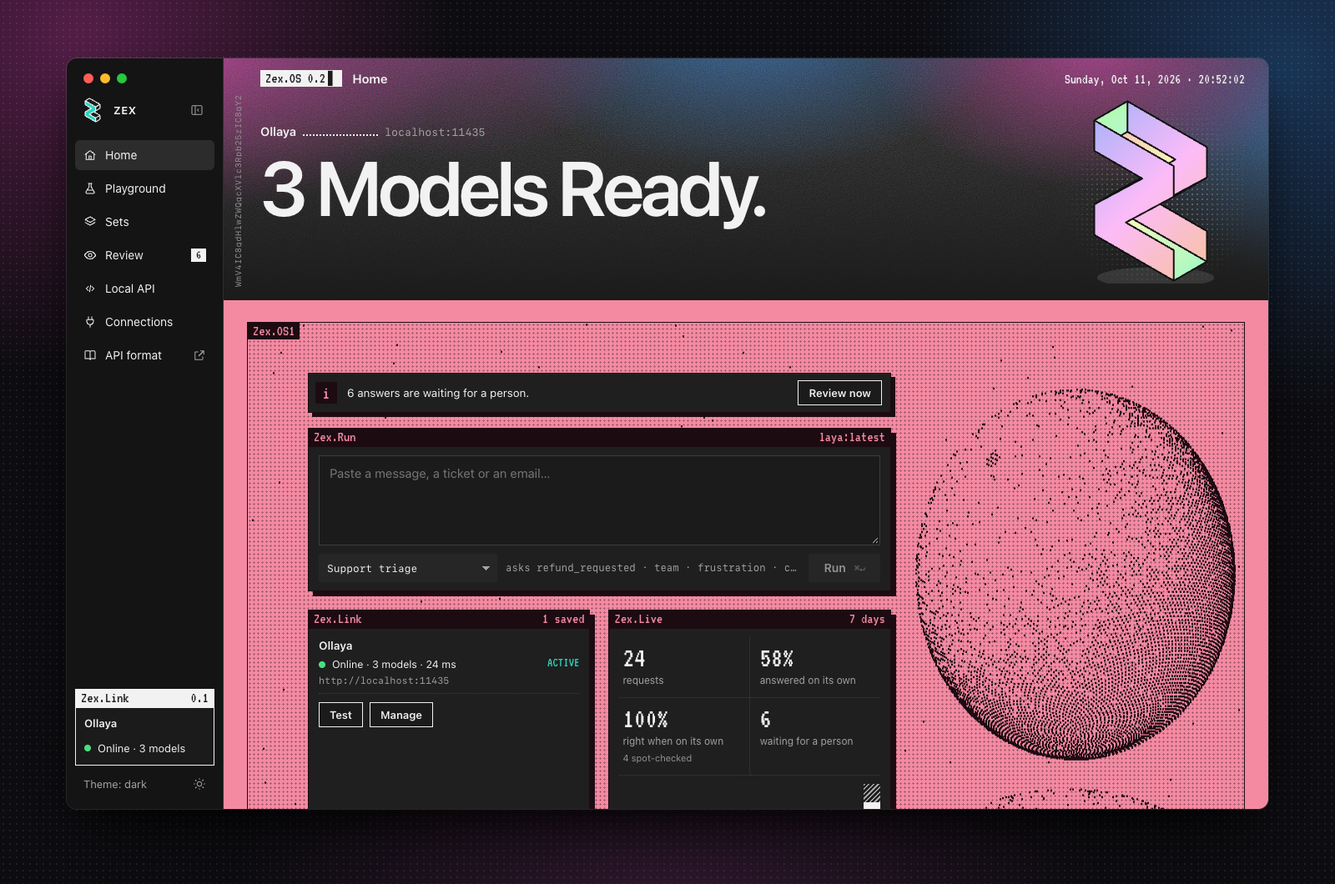
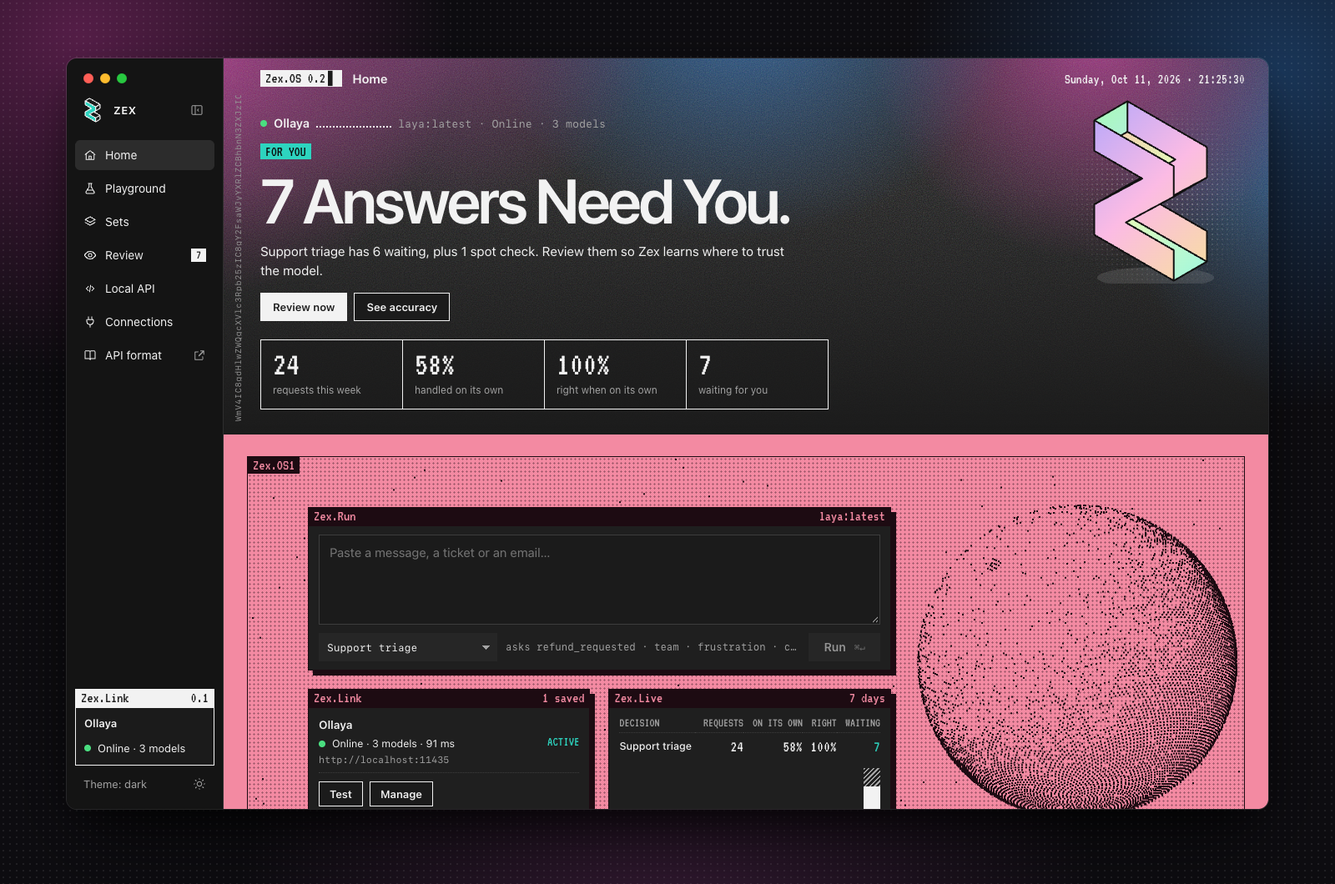
Lead Home with what matters now, and fix the review list in the app
Home's head is now a briefing: a problem to fix, answers waiting, or how the
week went, with the action and the week's numbers. The Live card breaks them
down by decision. The desktop server sent a null list when the request log
was empty, which broke the Review page; it now sends an empty list.

Changed region(s): [[0.1562, 0.1245, 0.9688, 0.934], [0.7188, 0.1557, 0.8438, 0.2802]]

diff --git a/web/index.html b/web/index.html
@@ -793,12 +793,6 @@ a.server-card:hover .win-title { background: var(--accent); color: var(--on-acce
 .rv-acc { display: flex; flex-direction: column; gap: 12px; }
 .rv-acc-note { margin: 0; font-size: 13px; color: var(--text-muted); }
 .switch.sm { height: 24px; } .switch.sm .pix { font-size: 16px; }
-.hm-alerts { position: relative; z-index: 1; display: flex; flex-direction: column; gap: 10px; margin-bottom: 18px; max-width: 64%; }
-.hm-alerts:empty { display: none; }
-.hm-alert { display: flex; align-items: center; gap: 12px; padding: 8px 10px 8px 8px; background: var(--winbody); border: 1.5px solid var(--desk-ink); box-shadow: 5px 5px 0 var(--desk-ink); font-size: 13.5px; }
-.hm-alert .ic { width: 26px; height: 26px; display: grid; place-items: center; font-size: 22px; background: var(--desk-ink); color: var(--desk); flex: none; }
-.hm-alert.a-bad .ic { background: var(--danger); color: #fff; } .hm-alert.a-warn .ic { background: var(--warn); color: #fff; }
-.hm-alert .tx { flex: 1; }
 .hm-live { display: flex; flex-direction: column; gap: 10px; }
 .hm-cell { text-align: left; padding: 8px 4px 10px; border-bottom: 1px dotted var(--border-strong); display: flex; flex-direction: column; }
 .hm-stats > .hm-cell:nth-child(odd) { border-right: 1px dotted var(--border-strong); padding-right: 10px; }
@@ -810,7 +804,34 @@ a.server-card:hover .win-title { background: var(--accent); color: var(--on-acce
 .lb { flex: 1; height: 100%; display: flex; flex-direction: column; justify-content: flex-end; }
 .lb i { display: block; } .lb i.aut { background: var(--text); } .lb i.rev { background: repeating-linear-gradient(135deg, var(--text-muted) 0 1.5px, transparent 1.5px 4px); }
 .lbars-x { display: flex; justify-content: space-between; font-size: 14px; color: var(--text-muted); }
-@media (max-width: 1100px) { .rv-grid { grid-template-columns: minmax(0, 1fr); } .hm-alerts { max-width: none; } }
+@media (max-width: 1100px) { .rv-grid { grid-template-columns: minmax(0, 1fr); } }
+
+/* ---------- home briefing ---------- */
+.hm-brief { max-width: calc(100% - 250px); }
+.hm-brief .hm-leader { margin: 34px 0 14px; max-width: none; gap: 0; }
+.hm-brief .hm-leader .dot { margin-right: 8px; }
+.hm-tone { display: inline-block; font-size: 17px; line-height: 19px; padding: 0 6px; background: var(--text); color: var(--bg); margin-bottom: 8px; }
+.tone-bad .hm-tone { background: var(--danger); color: #fff; } .tone-warn .hm-tone { background: var(--warn); color: #fff; }
+.tone-info .hm-tone { background: var(--accent); color: var(--on-accent); }
+.hm-brief .hm-status { font-size: clamp(40px, 5.2vw, 88px); line-height: 1.02; padding-top: .04em; max-width: none; min-height: 0; }
+.tone-bad .hm-status { color: var(--danger); }
+.hm-sub { margin: 12px 0 0; font-size: 15.5px; line-height: 1.45; max-width: 640px; }
+.hm-more { list-style: none; margin: 10px 0 0; padding: 0; font-size: 13px; color: var(--text-muted); display: flex; flex-direction: column; gap: 4px; }
+.hm-acts { display: flex; gap: 8px; flex-wrap: wrap; margin-top: 16px; }
+.hm-acts .btn { height: 34px; padding: 0 14px; }
+.hm-kpis { display: grid; grid-template-columns: repeat(4, minmax(0, 170px)); margin-top: 22px; border-top: 1.5px solid var(--text); border-left: 1.5px solid var(--text); width: max-content; max-width: 100%; }
+.hm-kpi { display: flex; flex-direction: column; gap: 2px; text-align: left; padding: 10px 14px 12px; border-right: 1.5px solid var(--text); border-bottom: 1.5px solid var(--text); background: color-mix(in srgb, var(--bg) 55%, transparent); min-width: 0; }
+.hm-kpi b { font-family: var(--pix); font-size: 40px; font-weight: 400; line-height: .95; }
+.hm-kpi span { font-size: 12px; color: var(--text-muted); white-space: nowrap; overflow: hidden; text-overflow: ellipsis; }
+.hm-kpi:hover { background: var(--bg); } .hm-kpi:hover b { color: var(--accent); }
+.hm-dec { width: 100%; border-collapse: collapse; font-size: 12.5px; }
+.hm-dec th { font: 15px var(--pix); text-transform: uppercase; color: var(--text-muted); text-align: right; padding: 0 0 4px 8px; font-weight: 400; }
+.hm-dec th:first-child { text-align: left; padding-left: 0; }
+.hm-dec td { padding: 6px 0 6px 8px; border-top: 1px dotted var(--border-strong); text-align: right; }
+.hm-dec td.n { text-align: left; padding-left: 0; font-weight: 500; overflow: hidden; text-overflow: ellipsis; white-space: nowrap; max-width: 140px; }
+.hm-dec td.pix { font-size: 19px; } .hm-dec td.w { color: var(--accent); }
+.hm-dec tbody tr { cursor: pointer; } .hm-dec tbody tr:hover td { background: var(--surface-2); }
+@media (max-width: 900px) { .hm-brief { max-width: none; } .hm-kpis { grid-template-columns: repeat(2, minmax(0, 1fr)); width: auto; } }
 
 /* ---------- boot splash ---------- */
 #splash { position: fixed; inset: 0; z-index: 1000; display: grid; place-items: center; overflow: hidden; background: var(--bg); color: var(--text);
@@ -1466,14 +1487,7 @@ a.server-card:hover .win-title { background: var(--accent); color: var(--on-acce
     document.querySelectorAll("[data-cerr]").forEach((el) => { el.textContent = statusLine(el.dataset.cerr).error || ""; });
     document.querySelectorAll("[data-cmodels]").forEach((el) => el.replaceChildren(...modelChips(el.dataset.cmodels)));
     document.querySelectorAll("[data-coff]").forEach((el) => { el.hidden = cstat[el.dataset.coff]?.state !== "bad"; });
-    document.querySelectorAll("[data-hmstatus]").forEach((el) => { const t = homeStatus(); if (el.dataset.t !== t) { el.dataset.t = t; el.replaceChildren(...words(t)); } });
-  }
-  function homeStatus() {
-    const st = cstat[activeId];
-    if (!st || st.state === "checking") return "Connecting…";
-    if (st.state === "bad") return "No Model Server.";
-    if (st.state === "warn") return "Server Ready.";
-    return `${st.models.length} Model${st.models.length === 1 ? "" : "s"} Ready.`;
+    paintBrief();
   }
 
   function useConn(id) { activeId = id; saveConns(); syncModelSelect(); paintConnUI(); cmp.a = null; cmp.b = null; cmp.res = {}; if (route !== "playground") applyRoute(); }
@@ -2936,7 +2950,6 @@ a.server-card:hover .win-title { background: var(--accent); color: var(--on-acce
       ac.kind === "ollaya" ? [h("code", {}, installCmds),
         h("div", { class: "btn-row" }, h("button", { class: "btn", type: "button", onclick: async () => toast((await copyText(installCmds)) ? "Commands copied" : "Copy failed") }, "Copy install commands"))] : null);
 
-    const status = homeStatus();
     const stat = (label, value, count, suffix = "") => h("div", {}, h("b", count != null ? { "data-count": String(count), "data-suffix": suffix } : {}, value), h("span", {}, label));
 
     return h("div", { class: "home" },
@@ -2945,12 +2958,10 @@ a.server-card:hover .win-title { background: var(--accent); color: var(--on-acce
         h("div", { class: "hm-top" },
           h("span", { class: "tagline cursor" }, "Zex.OS 0.2"), h("h1", {}, "Home"), h("span", { class: "grow" }),
           h("span", { class: "zclock pix" }, `${fmtDate()} · ${fmtTime()}`)),
-        h("p", { class: "hm-leader" }, h("b", {}, ac.name), h("span", { class: "dl", "aria-hidden": "true" }), h("span", { class: "u" }, ac.url.replace(/^https?:\/\//, ""))),
-        h("div", { class: "giant hm-status", "data-hmstatus": "", "data-t": status, role: "status" }, words(status)),
+        (hmBriefEl = briefEl()),
         h("div", { class: "hm-mark" }, h("div", { class: "halftone" }), heroCanvas())),
       h("div", { class: "hm-desk-wrap" }, withDeskDots(h("section", { class: "hm-desk", "aria-label": "Workspace" },
         h("span", { class: "tagline" }, "Zex.OS1"),
-        (hmAlertsEl = alertsEl()),
         h("div", { class: "hm-grid" },
         win("Zex.Run", h("span", { "data-model": "" }, model), h("div", { class: "qr" }, ta, h("div", { class: "qr-row" }, sel, keys, runQ)), "qr-win"),
         win("Zex.Link", `${conns.length} saved`, h("div", { class: "hm-conn" },
@@ -3038,7 +3049,7 @@ a.server-card:hover .win-title { background: var(--accent); color: var(--on-acce
   // as spot checks. Every review is a label, and labels feed the accuracy view and Home.
   const rv = { tab: "waiting", set: "", items: [], counts: {}, total: 0, sel: null, picks: {}, q: 0, evalKey: null, evalThr: {}, evalItems: null, loading: false, error: "" };
   let live = { stats: null, counts: null };
-  let rvBody = null, hmStatsEl = null, hmAlertsEl = null;
+  let rvBody = null, hmStatsEl = null;
   async function zexGet(path) { const r = await fetch(path, { headers: { "X-Zex": "1" } }); const d = await r.json(); if (!r.ok) throw new Error(d.error || `HTTP ${r.status}`); return d; }
   async function zexPost(path, body) { const r = await fetch(path, { method: "POST", headers: { "X-Zex": "1", "Content-Type": "application/json" }, body: JSON.stringify(body) }); const d = await r.json(); if (!r.ok) throw new Error(d.error || `HTTP ${r.status}`); return d; }
   const itemStatus = (it) => (it.review ? "reviewed" : it.error ? "error" : !it.all_auto ? "waiting" : it.audit ? "spot" : "auto");
@@ -3071,10 +3082,10 @@ a.server-card:hover .win-title { background: var(--accent); color: var(--on-acce
       if (rv.tab === "accuracy") {
         if (!rv.set) rv.set = (curSet() || sets[0])?.slug || "";
         const d = await zexGet(`/zex/log?status=reviewed&limit=-1&set=${encodeURIComponent(rv.set)}`);
-        rv.evalItems = d.items; rv.counts = d.counts;
+        rv.evalItems = d.items || []; rv.counts = d.counts || {};
       } else {
         const d = await zexGet(`/zex/log?status=${rv.tab}&limit=200${setQ}`);
-        rv.items = d.items; rv.counts = d.counts; rv.total = d.total;
+        rv.items = d.items || []; rv.counts = d.counts || {}; rv.total = d.total || 0;
         if (!rv.items.some((x) => x.id === rv.sel)) { rv.sel = rv.items[0]?.id || null; rv.picks = {}; rv.q = 0; }
       }
     } catch (e) { rv.error = e.message; }
@@ -3269,17 +3280,11 @@ a.server-card:hover .win-title { background: var(--accent); color: var(--on-acce
     if (L.waiting + L.spot) out.push({ kind: "info", text: `${fmtN(L.waiting)} answer${L.waiting === 1 ? " is" : "s are"} waiting for a person${L.spot ? `, and ${fmtN(L.spot)} spot check${L.spot === 1 ? "" : "s"}` : ""}.`, act: ["Review now", () => { rv.tab = L.waiting ? "waiting" : "spot"; go("review"); }] });
     for (const p of L.per) {
       const see = ["See accuracy", () => { rv.tab = "accuracy"; rv.set = p.slug; rv.evalItems = null; go("review"); }];
-      if (p.ac >= 10 && p.ag / p.ac < evalTarget) out.push({ kind: "bad", text: `${p.name}: AUTO answers were right ${pct(p.ag / p.ac)} of the time this week, below your aim of ${pct(evalTarget)}.`, act: see });
-      else if (p.ac >= 10 && p.pac >= 10 && p.pag / p.pac - p.ag / p.ac >= 0.05) out.push({ kind: "warn", text: `${p.name}: AUTO answers were right ${pct(p.ag / p.ac)} of the time this week, down from ${pct(p.pag / p.pac)} the week before.`, act: see });
-      if (p.req >= 10 && p.err / p.req > 0.1) out.push({ kind: "bad", text: `${p.name}: ${fmtN(p.err)} of ${fmtN(p.req)} requests failed this week. Check the connection.`, act: ["Connections", () => go("connections")] });
+      if (p.ac >= 10 && p.ag / p.ac < evalTarget) out.push({ kind: "bad", head: `${p.name} Is Below Your Aim.`, text: `${p.name}: AUTO answers were right ${pct(p.ag / p.ac)} of the time this week, below your aim of ${pct(evalTarget)}.`, act: see });
+      else if (p.ac >= 10 && p.pac >= 10 && p.pag / p.pac - p.ag / p.ac >= 0.05) out.push({ kind: "warn", head: `${p.name} Is Slipping.`, text: `${p.name}: AUTO answers were right ${pct(p.ag / p.ac)} of the time this week, down from ${pct(p.pag / p.pac)} the week before.`, act: see });
+      if (p.req >= 10 && p.err / p.req > 0.1) out.push({ kind: "bad", head: "Requests Are Failing.", text: `${p.name}: ${fmtN(p.err)} of ${fmtN(p.req)} requests failed this week. Check the connection.`, act: ["Connections", () => go("connections")] });
     }
     return out;
-  }
-  function alertsEl() {
-    const L = liveSummary(), list = L ? liveAlerts(L) : [];
-    return h("div", { class: "hm-alerts" }, list.map((a) => h("div", { class: "hm-alert a-" + a.kind, role: a.kind === "info" ? "status" : "alert" },
-      h("span", { class: "ic pix" }, a.kind === "info" ? "i" : "!"), h("span", { class: "tx" }, a.text),
-      h("button", { class: "btn", type: "button", onclick: a.act[1] }, a.act[0]))));
   }
   function statsCard() {
     const L = liveSummary();
@@ -3292,22 +3297,80 @@ a.server-card:hover .win-title { background: var(--accent); color: var(--on-acce
         stat(`answers at ≥ ${Math.round(thr * 100)}%`, st.autoRate != null ? pct(st.autoRate) : "–", st.autoRate != null ? Math.round(st.autoRate * 100) : null, "%"),
         stat("last run", st.lastAt ? ago(st.lastAt) : "–")));
     }
-    const t = L.tot, ok = t.req - t.err, max = Math.max(1, ...L.daily.map((d) => d.req));
-    const cell = (label, value, sub, onclick) => h(onclick ? "button" : "div", onclick ? { type: "button", class: "hm-cell link", onclick } : { class: "hm-cell" }, h("b", {}, value), h("span", {}, label), sub ? h("small", {}, sub) : null);
+    const max = Math.max(1, ...L.daily.map((d) => d.req)), wt = live.stats.waiting || {}, sp = live.stats.spot || {};
     return win("Zex.Live", "7 days", h("div", { class: "hm-live" },
-      h("div", { class: "hm-stats" },
-        cell("requests", fmtN(t.req), t.err ? `${fmtN(t.err)} failed` : null),
-        cell("answered on its own", ok ? pct(t.auto / ok) : "–"),
-        cell("right when on its own", t.ac ? pct(t.ag / t.ac) : "–", t.ac ? `${fmtN(t.ac)} spot-checked` : "no spot checks yet", () => { rv.tab = t.ac ? "accuracy" : "spot"; go("review"); }),
-        cell("waiting for a person", fmtN(L.waiting + L.spot), null, () => { rv.tab = L.waiting ? "waiting" : "spot"; go("review"); })),
+      h("table", { class: "hm-dec" },
+        h("thead", {}, h("tr", {}, h("th", {}, "decision"), h("th", {}, "requests"), h("th", {}, "on its own"), h("th", {}, "right"), h("th", {}, "waiting"))),
+        h("tbody", {}, L.per.sort((a, b) => b.req - a.req).map((p) => {
+          const ok = p.req - p.err, w = (wt[p.slug] || 0) + (sp[p.slug] || 0);
+          return h("tr", { onclick: () => { rv.set = p.slug; rv.tab = w ? "waiting" : "accuracy"; rv.evalItems = null; go("review"); } },
+            h("td", { class: "n" }, p.name), h("td", { class: "pix" }, fmtN(p.req)), h("td", { class: "pix" }, ok ? pct(p.auto / ok) : "–"),
+            h("td", { class: "pix" }, p.ac ? pct(p.ag / p.ac) : "–"), h("td", { class: "pix" + (w ? " w" : "") }, fmtN(w)));
+        }))),
       h("div", { class: "lbars", title: "Requests per day: filled answered on its own, hatched went to a person" },
         L.daily.map((d) => h("div", { class: "lb", title: `${d.day}: ${d.req} requests, ${d.auto} on its own` },
           h("i", { class: "rev", style: `height:${((d.req - d.auto) / max) * 100}%` }), h("i", { class: "aut", style: `height:${(d.auto / max) * 100}%` })))),
       h("div", { class: "lbars-x pix" }, h("span", {}, L.daily[0].day.slice(5)), h("span", {}, "today"))));
   }
+
+  // The head of Home: the single most important thing right now, what to do about it, and
+  // the week's numbers. Problems come first, then work waiting, then how things are going.
+  let hmBriefEl = null;
+  function briefing() {
+    const c = activeConn(), st = cstat[activeId], L = liveSummary();
+    const toReview = (tab) => () => { rv.tab = tab; go("review"); };
+    if (!st || st.state === "checking") return { tone: "wait", tag: "CONNECTING", h: "Connecting…", s: `Looking for ${c.name} at ${c.url.replace(/^https?:\/\//, "")}.`, acts: [] };
+    if (st.state === "bad") return { tone: "bad", tag: "OFFLINE", h: "No Model Server.", s: `${c.name} isn't answering at ${c.url.replace(/^https?:\/\//, "")}. Start it, or switch to another connection.`, acts: [["Connections", () => go("connections"), true]] };
+    if (L) {
+      const alerts = liveAlerts(L), wait = L.waiting + L.spot;
+      const top = alerts.find((a) => a.kind === "bad") || alerts.find((a) => a.kind === "warn");
+      const rest = alerts.filter((a) => a !== top && a.kind !== "info");
+      if (top) return { tone: top.kind, tag: "ATTENTION", h: top.head, s: top.text, more: rest, acts: [[top.act[0], top.act[1], true], ...(wait ? [[`Review ${fmtN(wait)}`, toReview(L.waiting ? "waiting" : "spot")]] : [])] };
+      if (wait) {
+        const per = Object.entries(live.stats.waiting || {}).filter(([, n]) => n).sort((a, b) => b[1] - a[1]).slice(0, 2).map(([slug, n]) => `${setName(slug)} has ${fmtN(n)} waiting`);
+        const spot = L.spot ? `plus ${fmtN(L.spot)} spot check${L.spot === 1 ? "" : "s"}` : "";
+        return { tone: "info", tag: "FOR YOU", h: `${fmtN(wait)} Answer${wait === 1 ? " Needs" : "s Need"} You.`, s: [...per, spot].filter(Boolean).join(", ") + ". Review them so Zex learns where to trust the model.", more: rest,
+          acts: [["Review now", toReview(L.waiting ? "waiting" : "spot"), true], ["See accuracy", () => { rv.tab = "accuracy"; rv.evalItems = null; go("review"); }]] };
+      }
+      const t = L.tot, ok = t.req - t.err;
+      return { tone: "ok", tag: "ALL CLEAR", h: ok ? `${pct(t.auto / ok)} Handled On Its Own.` : "All Clear.",
+        s: `${fmtN(t.req)} request${t.req === 1 ? "" : "s"} this week, nothing waiting. ` + (t.ac ? `Spot checks found the model right ${pct(t.ag / t.ac)} of the time.` : "Spot checks will show how often the model is right."), more: rest,
+        acts: [["See accuracy", () => { rv.tab = "accuracy"; rv.evalItems = null; go("review"); }, true]] };
+    }
+    const n = st.models.length;
+    return { tone: "ok", tag: "READY", h: "Ready To Decide.",
+      s: `${c.name} is online with ${n} model${n === 1 ? "" : "s"}. Try a set on a message below, or turn on the local API to put one to work.`,
+      acts: [["Open Playground", () => openMode("response"), true], [apiCfg.enabled ? "Local API" : "Turn on the local API", () => go("api")]] };
+  }
+  function briefEl() {
+    const b = briefing(), L = liveSummary(), c = activeConn(), sl = statusLine(c.id);
+    const key = [b.tone, b.h, b.s, b.acts.map((a) => a[0]).join(), (b.more || []).length, L ? [L.tot.req, L.tot.auto, L.tot.ac, L.waiting + L.spot].join() : ""].join("|");
+    const cell = (label, value, onclick) => h("button", { type: "button", class: "hm-kpi", onclick }, h("b", {}, value), h("span", {}, label));
+    const t = L?.tot, ok = t ? t.req - t.err : 0;
+    return h("div", { class: "hm-brief tone-" + b.tone, "data-key": key },
+      h("p", { class: "hm-leader" }, h("span", { class: sl.cls, "data-cdot": c.id }), h("b", {}, c.name), h("span", { class: "dl", "aria-hidden": "true" }),
+        h("span", { class: "u" }, `${model} · `, h("span", { "data-ctext": c.id }, sl.short))),
+      h("span", { class: "hm-tone pix" }, b.tag),
+      h("h2", { class: "giant hm-status", role: "status" }, words(b.h)),
+      h("p", { class: "hm-sub" }, b.s),
+      b.more?.length ? h("ul", { class: "hm-more" }, b.more.slice(0, 2).map((a) => h("li", {}, h("span", {}, a.text), " ", h("button", { class: "text-btn xs bordered", type: "button", onclick: a.act[1] }, a.act[0])))) : null,
+      b.acts.length ? h("div", { class: "hm-acts" }, b.acts.map(([label, fn, primary]) => h("button", { class: "btn" + (primary ? " solid" : ""), type: "button", onclick: fn }, label))) : null,
+      L ? h("div", { class: "hm-kpis", "aria-label": "The last 7 days" },
+        cell("requests this week", fmtN(t.req), () => { rv.tab = "all"; go("review"); }),
+        cell("handled on its own", ok ? pct(t.auto / ok) : "–", () => { rv.tab = "all"; go("review"); }),
+        cell("right when on its own", t.ac ? pct(t.ag / t.ac) : "–", () => { rv.tab = t.ac ? "accuracy" : "spot"; rv.evalItems = null; go("review"); }),
+        cell("waiting for you", fmtN(L.waiting + L.spot), () => { rv.tab = L.waiting ? "waiting" : "spot"; go("review"); })) : null);
+  }
+  function paintBrief() {
+    if (!hmBriefEl?.isConnected) return;
+    const n = briefEl();
+    if (n.dataset.key === hmBriefEl.dataset.key) return;
+    hmBriefEl.replaceWith(n); hmBriefEl = n;
+  }
+
   function paintLive() {
     if (hmStatsEl?.isConnected) { const n = statsCard(); hmStatsEl.replaceWith(n); hmStatsEl = n; }
-    if (hmAlertsEl?.isConnected) { const n = alertsEl(); hmAlertsEl.replaceWith(n); hmAlertsEl = n; }
+    paintBrief();
   }
 
   // ---------------------------------------------------------------- local API

diff --git a/tests/flows.html b/tests/flows.html
@@ -168,7 +168,7 @@ async function goRoute(w, d, r) {
     ok("HOME-1 home shows quick run, connections, recent runs, stats and six tools", !!d.querySelector(".qr textarea") && !!d.querySelector(".hm-conn") && !!d.querySelector(".hm-recent") && !!d.querySelector(".hm-stats") && d.querySelectorAll(".opt-tile").length === 6);
     ok("HOME-2 clock shows the time", /\d\d:\d\d:\d\d/.test(d.querySelector(".hm-top .zclock")?.textContent || ""));
     ok("HOME-6 no landing-page call-to-action links", !d.querySelector(".h-hero, .h-desk, .h-cta, .big-link"));
-    ok("HOME-10 giant headline is the live server status", /Models? Ready\./.test(d.querySelector("[data-hmstatus]")?.textContent || ""), d.querySelector("[data-hmstatus]")?.textContent);
+    ok("HOME-10 the head says what matters now: ready, with the next step", /Ready To Decide\./.test(d.querySelector(".hm-brief .hm-status")?.textContent || "") && !!d.querySelector(".hm-brief .hm-acts .btn.solid"), d.querySelector(".hm-brief .hm-status")?.textContent);
     ok("HOME-11 3D mark and stippled desk drawn", !!d.querySelector(".hm-sky canvas.hero3d") && !!d.querySelector(".hm-desk canvas.hm-dots") && d.querySelector(".hm-dots").width > 0);
     ok("HOME-7 recent runs listed", d.querySelectorAll(".hm-recent .hist-item").length >= 1);
     ok("HOME-8 active connection shows its live status", /Online/.test(d.querySelector(".hm-conn [data-ctext]")?.textContent || ""));
@@ -269,9 +269,9 @@ async function goRoute(w, d, r) {
     await waitFor(() => d.querySelector(".rv-acc .eval-tiles"), 8000);
     ok("REVIEW-5 reviewed answers feed the accuracy view", !!d.querySelector(".rv-acc .eval-tiles") && /1 reviewed answer/.test(d.querySelector(".rv-acc-note")?.textContent || ""), d.querySelector(".rv-acc-note")?.textContent);
     await goRoute(w, d, "home");
-    await waitFor(() => d.querySelector(".hm-live"), 20000);
-    ok("REVIEW-6 Home shows the last 7 days of requests", d.querySelector(".hm-live .hm-cell b")?.textContent === "3", d.querySelector(".hm-live")?.textContent.slice(0, 90));
-    ok("REVIEW-7 Home flags answers waiting for a person", /waiting for a person/.test(d.querySelector(".hm-alerts")?.textContent || ""));
+    await waitFor(() => d.querySelector(".hm-live") && d.querySelector(".hm-kpis"), 20000);
+    ok("REVIEW-6 Home shows the week's numbers", d.querySelector(".hm-kpis .hm-kpi b")?.textContent === "3" && !!d.querySelector(".hm-live .hm-dec td.n"), d.querySelector(".hm-kpis")?.textContent.slice(0, 90));
+    ok("REVIEW-7 the head says answers need you, with Review now", /Need You\./.test(d.querySelector(".hm-brief .hm-status")?.textContent || "") && /Review now/.test(d.querySelector(".hm-brief .hm-acts")?.textContent || ""), d.querySelector(".hm-brief .hm-status")?.textContent);
     ok("REVIEW-8 the sidebar counts what is waiting", Number(d.querySelector("#reviewBadge")?.textContent || 0) >= 1 && !d.querySelector("#reviewBadge").hidden);
     await w.fetch("/zex/log/clear", { method: "POST", headers: page, body: "{}" });
     await goRoute(w, d, "api");

diff --git a/server.py b/server.py
@@ -349,7 +349,7 @@ class Handler(http.server.SimpleHTTPRequestHandler):
         path = urllib.parse.urlparse(self.path).path.rstrip("/")
         sets = cfg.get("sets") or []
         if path == "/api" and self.command == "GET":
-            return self._json(200, {"ok": True, "app": "zex", "version": "0.2.0", "sets": len(sets)})
+            return self._json(200, {"ok": True, "app": "zex", "version": "0.2.1", "sets": len(sets)})
         if path == "/api/sets" and self.command == "GET":
             return self._json(200, {"sets": [{"slug": s["slug"], "name": s["name"], "endpoint": "/api/sets/" + s["slug"],
                                               "questions": {k: (v or {}).get("type") for k, v in (s.get("questions") or {}).items()}} for s in sets]})

diff --git a/desktop/api_test.go b/desktop/api_test.go
@@ -187,6 +187,9 @@ func TestReviewQueue(t *testing.T) {
 	if r := get(t, h, "GET", "/zex/log", nil, ""); r.Code != 403 {
 		t.Fatalf("the log is for the page only, got %d", r.Code)
 	}
+	if r := get(t, h, "GET", "/zex/log?status=waiting", page, ""); !strings.Contains(r.Body.String(), `"items":[]`) {
+		t.Fatalf("an empty log should list no items, not null: %s", r.Body)
+	}
 	tok := conf(0.8, `{"refund":0.9}`, "")
 	first := run(tok)
 	if first["status"] != "review" || first["id"] == nil {

diff --git a/desktop/log.go b/desktop/log.go
@@ -203,7 +203,7 @@ func handleLog(w http.ResponseWriter, r *http.Request, origins map[string]bool) 
 	defer logMu.Unlock()
 	loadLog()
 	counts := map[string]int{"waiting": 0, "spot": 0, "reviewed": 0, "error": 0, "auto": 0, "all": 0}
-	var match []*logItem
+	match := []*logItem{} // an empty list, never null, so the page can always read it
 	for i := len(logItems) - 1; i >= 0; i-- {
 		it := logItems[i]
 		if set != "" && it.Set != set {

diff --git a/desktop/main.go b/desktop/main.go
@@ -18,7 +18,7 @@ import (
 	"zex/web"
 )
 
-var version = "0.2.0"
+var version = "0.2.1"
 
 var errNoWebView = errors.New("no web view available")
 

diff --git a/README.md b/README.md
@@ -94,7 +94,7 @@ Each review is a label. Zex uses the labels to show how often the model is right
 
 <img alt="Home: requests this week, the share answered on its own, accuracy from spot checks, and what is waiting" src="docs/screenshots/home-live.png">
 
-Home shows the last 7 days: requests, the share answered on its own, how often those answers were right, and what is waiting for a person. It warns you when accuracy falls below your aim, when it slips from the week before, and when requests start failing.
+Home leads with what matters right now: a problem to fix, answers waiting for you, or how the week went, with the button to act on it. Below it are the week's numbers (requests, the share handled on its own, how often those answers were right, what is waiting), and the Live card breaks them down by decision. Zex warns you when accuracy falls below your aim, when it slips from the week before, and when requests start failing.
 
 ## More
 
